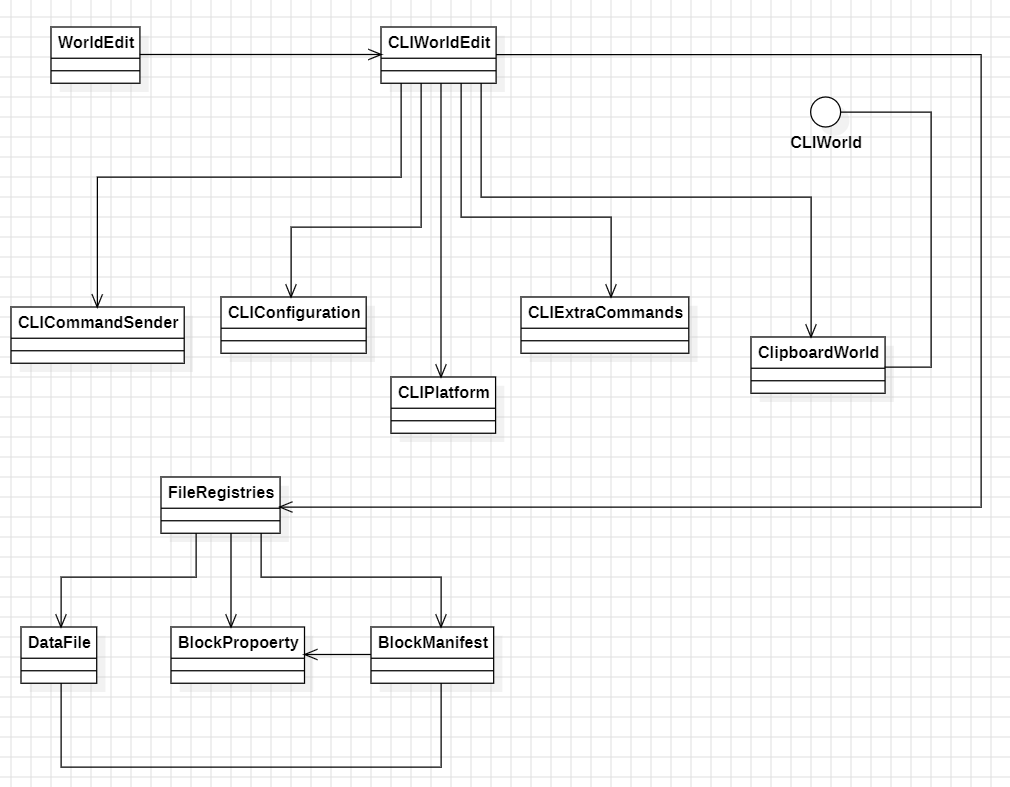
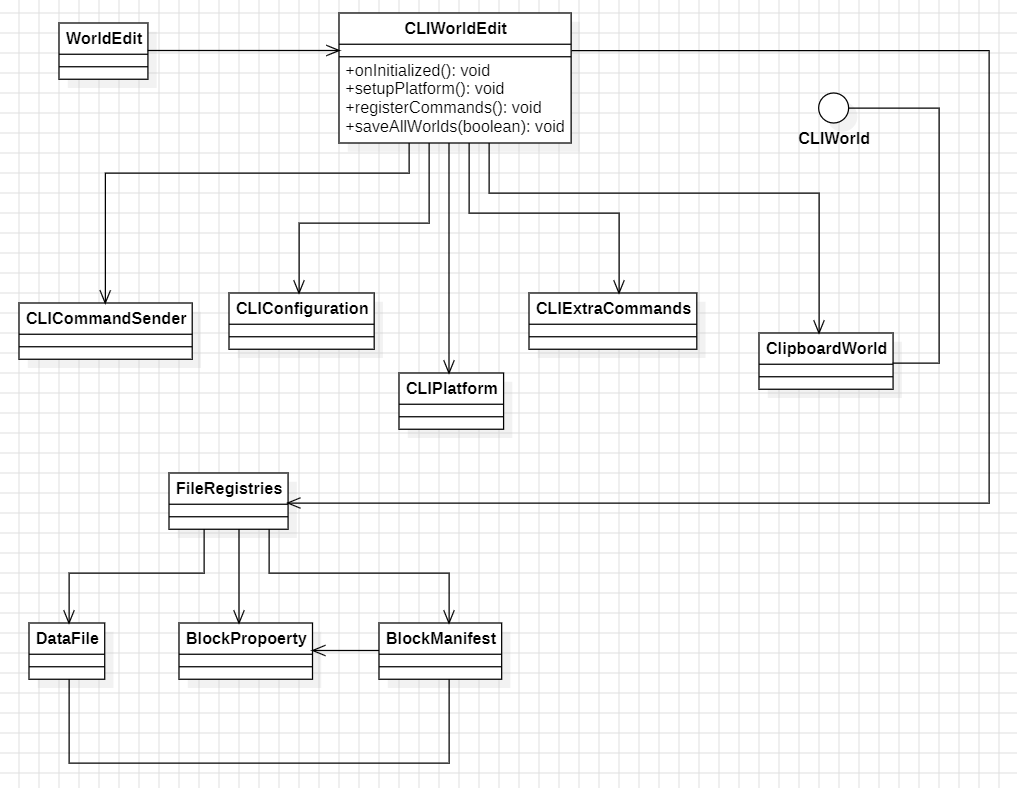
first design pattern (complete)

Changed region(s): [[0.0, 0.0, 0.9822, 0.9759], [0.7673, 0.122, 0.9208, 0.183]]

diff --git a/SE2425_60593_62111_62909_65330_65969_66081/Milestone2/DesignPatterns/NelsonMartins/DesignPatterns.md b/SE2425_60593_62111_62909_65330_65969_66081/Milestone2/DesignPatterns/NelsonMartins/DesignPatterns.md
@@ -1,6 +1,8 @@
 # Design Pattern 1 (Facade Pattern)
 
 ## 1. Code snippet:
+    
+    //...
 
     public class CLIWorldEdit {
 
@@ -52,35 +54,13 @@
     
         //...
     
-         public void run(InputStream inputStream) {
-            try (Scanner scanner = new Scanner(inputStream)) {
-                while (true) {
-                    System.err.print("> ");
-                    if (!scanner.hasNextLine()) {
-                        break;
-                    }
-                    String line = scanner.nextLine();
-                    if (line.isEmpty()) {
-                        continue;
-                    }
-                    if (line.equals("stop")) {
-                        commandSender.printInfo(TranslatableComponent.of("worldedit.cli.stopping"));
-                        break;
-                    }
-                    CommandEvent event = new CommandEvent(commandSender, line);
-                    WorldEdit.getInstance().getEventBus().post(event);
-                    if (!event.isCancelled()) {
-                        commandSender.printError(TranslatableComponent.of("worldedit.cli.unknown-command"));
-                    } else {
-                        saveAllWorlds(false);
-                    }
-                }
-            } finally {
-                saveAllWorlds(false);
-            }
+        public void saveAllWorlds(boolean force) {
+            platform.getWorlds().stream()
+                .filter(world -> world instanceof CLIWorld)
+                .forEach(world -> ((CLIWorld) world).save(force));
         }
 
-        /...
+        //...
     }
 
 ## 2. Class diagram:
@@ -93,12 +73,17 @@
 
 **Class:** `CLIWorldEdit`
 
-**Fields and Methods:** ...
+**Fields and Methods:** 
+
+- `void onInitialized()`: Initialize the command sender and platform and logs the initialization of the CLIWorldEdit.
+- `void setupPlatform()`: Register the platform, commands, configuration, fire the `PlatformsRegisteredEvent` and load the data files into file registries.
+- `void registerCommands()`: Register the CLI-specific commands with the `PlatformCommandManager`.
+- `void saveAllWorlds(boolean force)`: Save all the worlds managed by the platform, with an option to force the save.
 
 ## 4. Discussion:
 
-The facade pattern is used to simplify interactions with the WorldEdit
-subsystem and hide his complexity. Simplify operations like initialization and setup,
+The facade pattern is used here to simplify interactions with the WorldEdit CLI
+subsystem and hide his complexity. it simplifies operations like initialization and setup,
 command registration, event handling and subsystem management.
 
 # Design Pattern 2 (...)
